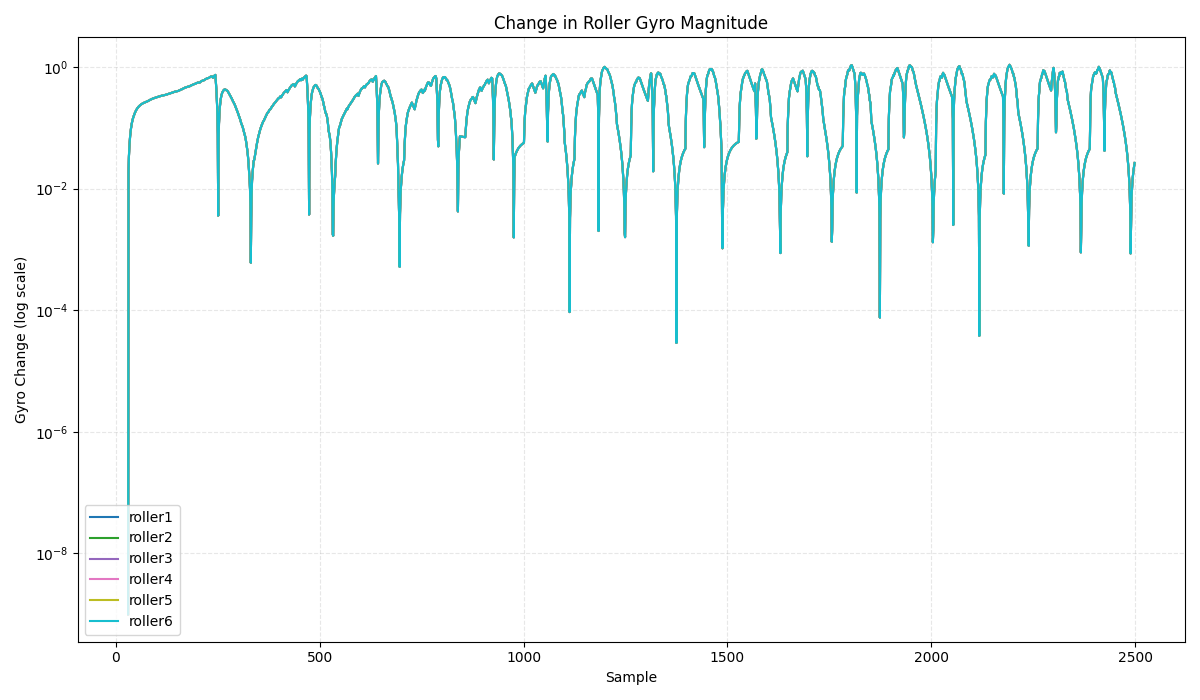
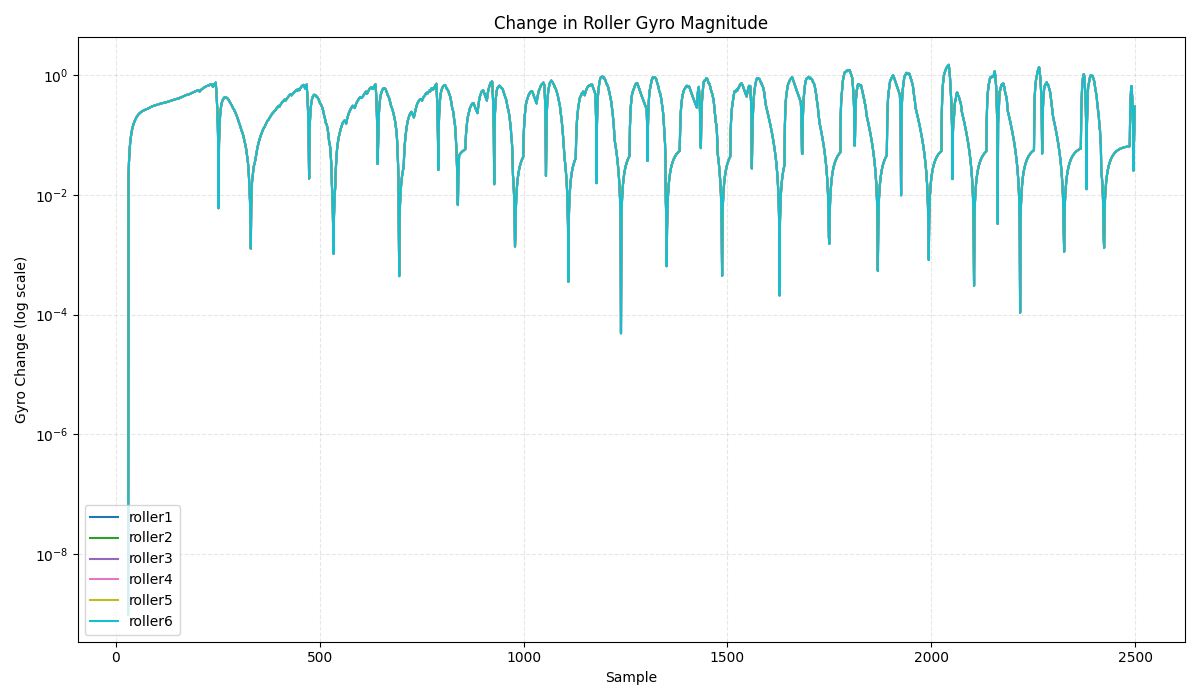
Ignore last push, updated values showing high rpm gyro sensing where torque sensing breaks down

diff --git a/robot copy.py b/robot copy.py
@@ -464,7 +464,7 @@ def roller_actuator_rotation():
                         accel = accel/np.linalg.norm(accel)
                         angle = np.dot(accel, grav)
 
-                        base_speed = 300
+                        base_speed = 150/5
                         
 
                         speed = base_speed * command
@@ -501,7 +501,7 @@ def roller_actuator_rotation():
                     viewer.sync()
 
                 
-                    time.sleep(0.001)
+                    # time.sleep(0.01)
                     pass
         finally:
             plot_sensor_history(torque_log, gyro_log)
